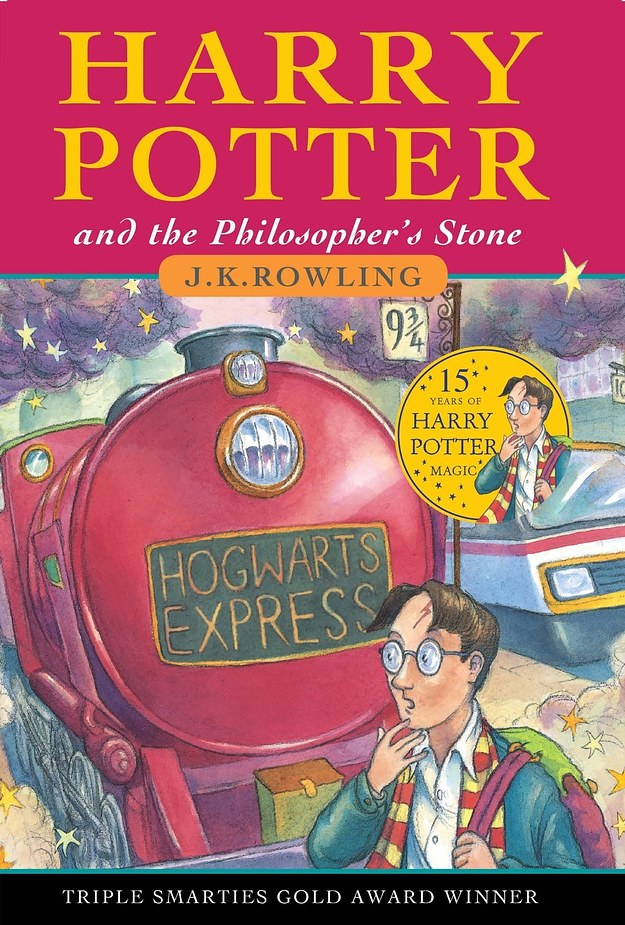
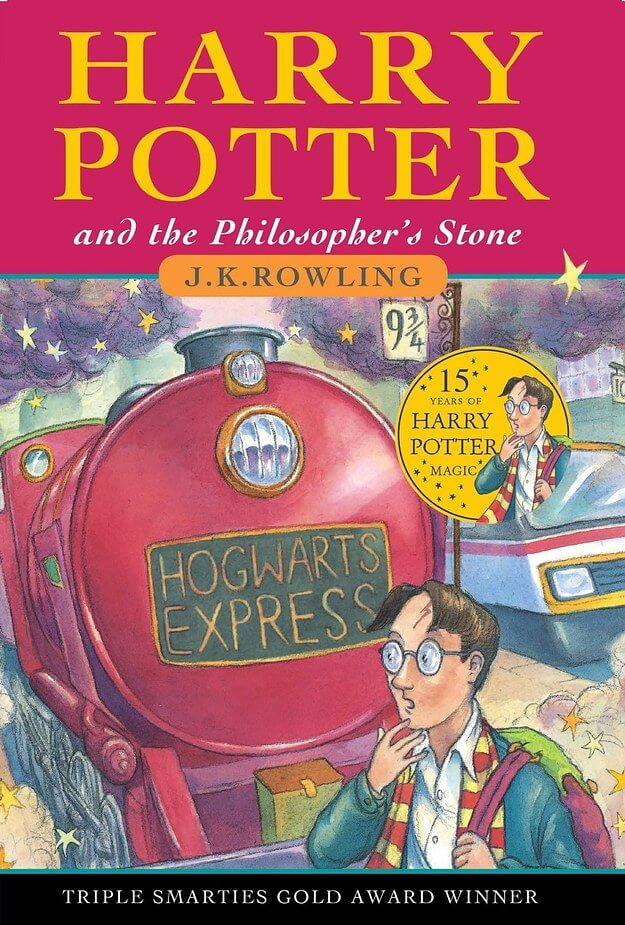
Slimmed images.
Moved some stuff around to make google page speed happy.

Fixed some validation

Changed region(s): [[0.6992, 0.4541, 0.7904, 0.5146], [0.8512, 0.3935, 0.8816, 0.4238], [0.7296, 0.3935, 0.76, 0.4238]]

diff --git a/inc/footer.php b/inc/footer.php
@@ -20,7 +20,7 @@
                 <!-- TemplateBeginEditable name="advanced-footer-col-2" -->
                 <p><a href="http://www.brookes.ac.uk/about-brookes/visit-us/">
                         <img class="img-responsive"
-                             src="//www.brookes.ac.uk/FrontendResources/img/map-homepage.png"
+                             src="../images/map-homepage.png"
                              alt="Oxford Brookes University map"></a>
                 </p>
                 <!-- TemplateEndEditable -->
@@ -68,18 +68,21 @@
         </div>
     </div>
 </footer>
+<link href="../node_modules/bootstrap/dist/css/bootstrap.min.css" rel="stylesheet" >
+<link rel="stylesheet" href="../node_modules/font-awesome/css/font-awesome.min.css" >
+<link href="../css/styles.css" rel="stylesheet" >
 
 
 <!-- jQuery (necessary for Bootstrap's JavaScript plugins) -->
 <script src="https://ajax.googleapis.com/ajax/libs/jquery/1.12.4/jquery.min.js"></script>
 <!-- Include all compiled plugins (below), or include individual files as needed -->
-<script src="../node_modules/bootstrap/dist/js/bootstrap.min.js"></script>
-<script src="../node_modules/mustache/mustache.min.js"></script>
-<script src="../js/app.js"></script>
-<script src="../js/singlebook.js"></script>
-<script src="../js/addBook.js"></script>
-<script src="../js/reservations.js"></script>
-<script src="../js/login.js"></script>
-<script type="text/javascript" src="../js/rating.js"></script>
-<script src="../node_modules/bootstrap-validator/dist/validator.min.js"></script>
+<script async src="../node_modules/bootstrap/dist/js/bootstrap.min.js"></script>
+<script async src="../node_modules/mustache/mustache.min.js"></script>
+<script async src="../js/app.js"></script>
+<script async src="../js/singlebook.js"></script>
+<script async src="../js/addBook.js"></script>
+<script async src="../js/reservations.js"></script>
+<script async src="../js/login.js"></script>
+<script async type="text/javascript" src="../js/rating.js"></script>
+<script async src="../node_modules/bootstrap-validator/dist/validator.min.js"></script>
 </body>

diff --git a/inc/header.php b/inc/header.php
@@ -11,9 +11,7 @@ function getHeader($breadcrumbs) { ?>
     <title>Worlds Best library site!</title>
 
     <!-- Bootstrap -->
-    <link href="../node_modules/bootstrap/dist/css/bootstrap.min.css" rel="stylesheet">
-    <link rel="stylesheet" href="../node_modules/font-awesome/css/font-awesome.min.css">
-    <link href="../css/styles.css" rel="stylesheet">
+
 
     <!-- HTML5 shim and Respond.js for IE8 support of HTML5 elements and media queries -->
     <!-- WARNING: Respond.js doesn't work if you view the page via file:// -->
@@ -52,7 +50,6 @@ function getHeader($breadcrumbs) { ?>
         <div class="container">
             <!-- TemplateBeginEditable name="breadcrumb_content" -->
             <ol class="breadcrumb">
-                <span class="sr-only">You are here:</span>
                 <?php echo $breadcrumbs; ?>
             </ol>
             <!-- TemplateEndEditable -->

diff --git a/inc/sidebar.php b/inc/sidebar.php
@@ -7,10 +7,10 @@
 </div>
 <?php
     if (hasPermission("admin")) {
-        ?><a href="/add-book/" type="button" class="add-book btn btn-primary btn-lg btn-block">Add Book</a><?php
+        ?><a href="/add-book/" class="add-book btn btn-primary btn-lg btn-block">Add Book</a><?php
     }
     if (hasPermission("postgrad")){
-        ?> <a href="/request-book/" type="button" class="request-book btn btn-primary btn-lg btn-block">Request Book</a><?php
+        ?> <a href="/request-book/" class="request-book btn btn-primary btn-lg btn-block">Request Book</a><?php
     }
 
 ?>

diff --git a/reservations/index.php b/reservations/index.php
@@ -12,7 +12,7 @@
                 <div class="border reservations-book-case">
 
                 </div>
-                <a href="#" type="button" class="pagination-btn previous-page btn btn-primary">Previous</a>
+                <button type="button" class="pagination-btn previous-page btn btn-primary">Previous</button>
                 <button type="button" class="pagination-btn next-page btn btn-primary pull-right">Next</button>
 
             </div>

diff --git a/search/index.php b/search/index.php
@@ -12,7 +12,7 @@
 
                 </div>
                 <div>
-                    <a href="#" type="button" class="pagination-btn previous-page btn btn-primary">Previous</a>
+                    <button type="button" class="pagination-btn previous-page btn btn-primary">Previous</button>
                     <button type="button" class="pagination-btn next-page btn btn-primary pull-right">Next</button>
                 </div>
 
